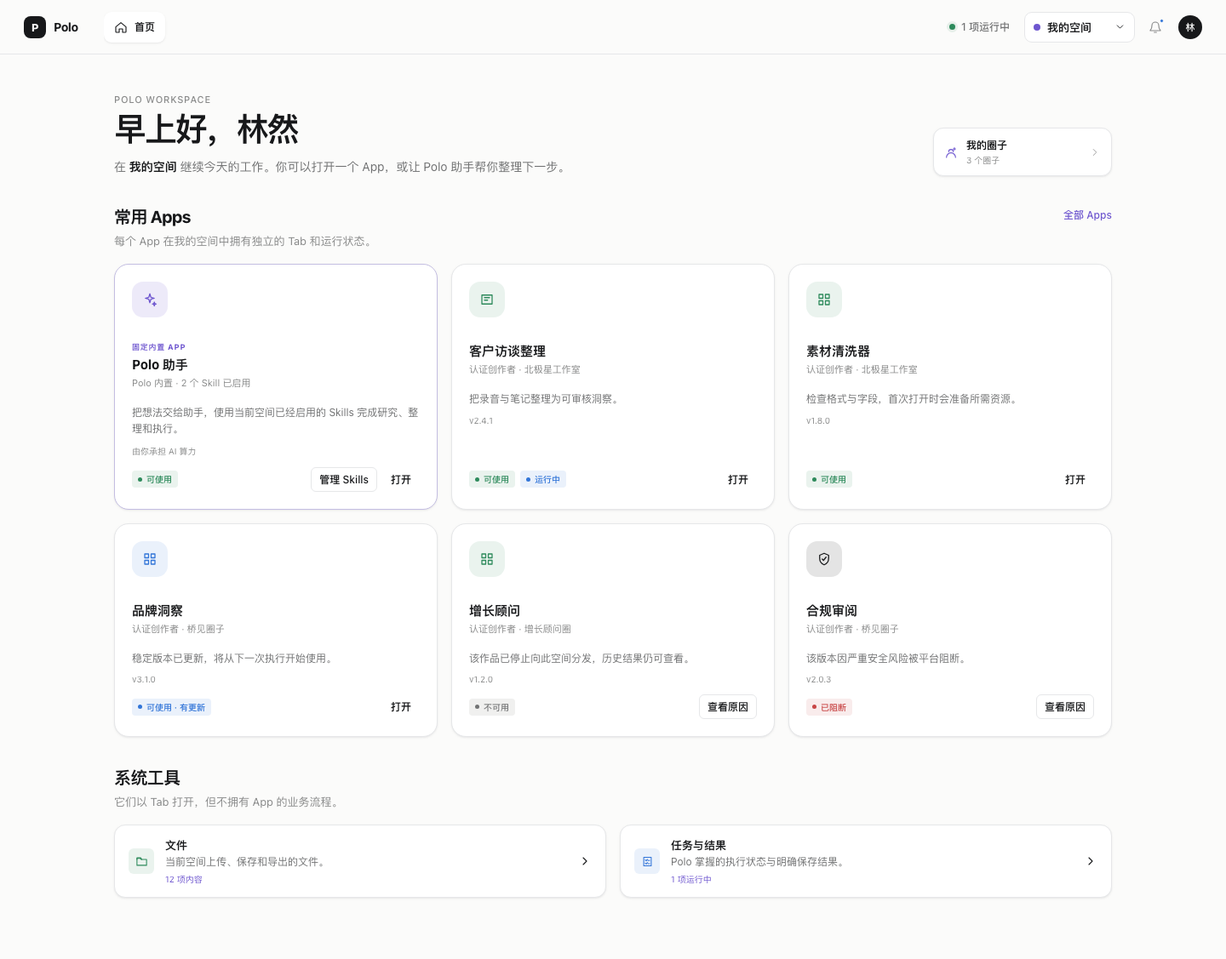
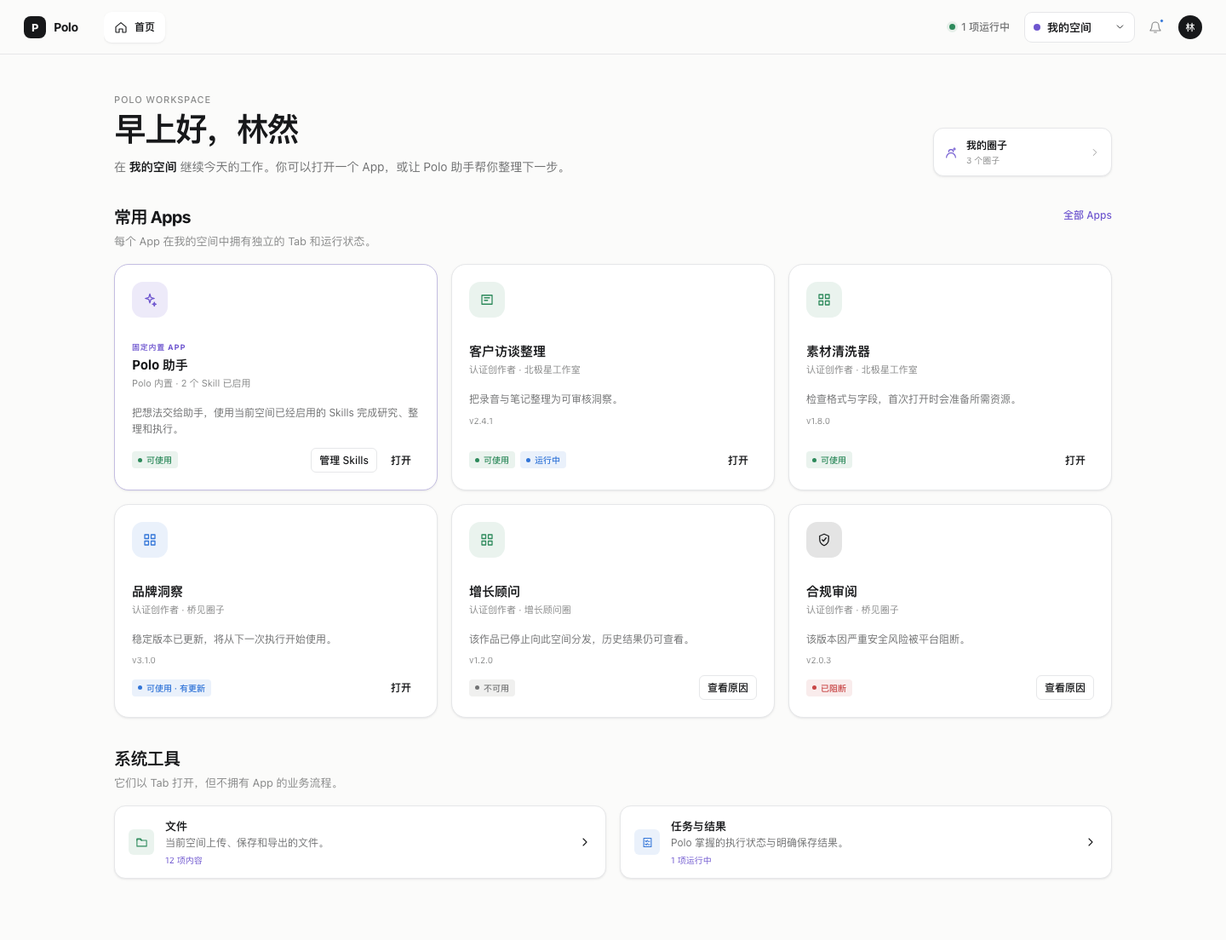
feat(polo-client): clarify assistant integration prototype

diff --git a/design-demos/polo-client-g4-ui/assets/app.js b/design-demos/polo-client-g4-ui/assets/app.js
@@ -33,8 +33,8 @@
   };
 
   const spaces = {
-    personal: { name: "我的空间", type: "个人空间", role: "个人", short: "我", dataOwner: "林然", payer: "林然", payerLine: "由你承担 AI 算力" },
-    enterprise: { name: "北辰智能科技", type: "企业空间", role: "Member", short: "北", dataOwner: "北辰智能科技", payer: "北辰智能科技", payerLine: "由企业承担 AI 算力" }
+    personal: { name: "我的空间", type: "个人空间", role: "个人", short: "我", dataOwner: "林然" },
+    enterprise: { name: "北辰智能科技", type: "企业空间", role: "Member", short: "北", dataOwner: "北辰智能科技" }
   };
 
   const apps = {
@@ -122,7 +122,7 @@
       ? [{ id: "exec-research", appId: "research", name: "客户访谈整理", detail: "正在分析 18 份访谈材料", status: "running", background: false }]
       : [{ id: "exec-weekly", appId: "weekly", name: "销售周报助手", detail: "正在准备企业授权数据", status: "preparing", background: true }],
     messages: [
-      { role: "assistant", text: space === "personal" ? "你好，林然。当前对话只使用“我的空间”的文件、Skills 和费用上下文。" : "你好，林然。当前对话属于北辰智能科技，数据和算力费用均归企业。" }
+      { role: "assistant", text: space === "personal" ? "你好，林然。当前对话只使用“我的空间”的文件和 Skills。" : "你好，林然。当前对话和数据均属于北辰智能科技。" }
     ]
   });
 
@@ -180,7 +180,7 @@
   const statusLabel = status => ({ preparing: "准备中", running: "运行中", waiting_for_network: "等待网络", stopping: "停止中", stopped: "已终止", failed: "失败", completed: "已完成" }[status] || status);
 
   function renderSpaceMenu() {
-    $("#space-menu").innerHTML = `<div class="menu-label">切换空间</div>${Object.entries(spaces).map(([id, space]) => `<button class="space-row ${state.space === id ? "active" : ""}" data-space="${id}" role="menuitem"><span class="space-avatar">${space.short}</span><span><b>${space.name}</b><small>${space.type} · ${space.role} · ${space.payerLine}</small></span>${state.space === id ? icon("check", "check") : ""}</button>`).join("")}`;
+    $("#space-menu").innerHTML = `<div class="menu-label">切换空间</div>${Object.entries(spaces).map(([id, space]) => `<button class="space-row ${state.space === id ? "active" : ""}" data-space="${id}" role="menuitem"><span class="space-avatar">${space.short}</span><span><b>${space.name}</b><small>${space.type} · ${space.role}</small></span>${state.space === id ? icon("check", "check") : ""}</button>`).join("")}`;
   }
 
   function renderAccountMenu() {
@@ -238,7 +238,7 @@
 
   function assistantHomeCard() {
     const enabledCount = Object.values(current().skillEnabled).filter(Boolean).length;
-    return `<article class="product-card assistant-card"><div class="card-heading"><span class="app-art">${icon("spark")}</span><div class="card-title"><p class="card-kicker">固定内置 App</p><h3>Polo 助手</h3><p class="source-line">Polo 内置 · ${enabledCount} 个 Skill 已启用</p></div></div><p class="product-description">把想法交给助手，使用当前空间已经启用的 Skills 完成研究、整理和执行。</p><div class="card-meta">${currentSpace().payerLine}</div><div class="status-line"><span class="status good">可使用</span><button class="card-action" data-open-assistant-skills>管理 Skills</button><button class="card-action primary" data-open="assistant">打开</button></div></article>`;
+    return `<article class="product-card assistant-card"><div class="card-heading"><span class="app-art">${icon("spark")}</span><div class="card-title"><p class="card-kicker">固定内置 App</p><h3>Polo 助手</h3><p class="source-line">Polo 内置 · ${enabledCount} 个 Skill 已启用</p></div></div><p class="product-description">把想法交给助手，使用当前空间已经启用的 Skills 完成研究、整理和执行。</p><div class="status-line"><span class="status good">可使用</span><button class="card-action" data-open-assistant-skills>管理 Skills</button><button class="card-action primary" data-open="assistant">打开</button></div></article>`;
   }
 
   function assistantManagementCard() {
@@ -397,7 +397,7 @@
     const membership = circleMembership(circle);
     const priceLabel = circle.price === "免费" ? "内容费免费" : `内容费 ${circle.price}`;
     const renewalLabel = membership.renewal === "长期有效" || membership.renewal.startsWith("可用至") ? membership.renewal : `下次续费 ${membership.renewal}`;
-    return `<div class="subpage-heading circle-detail-heading"><button class="back-button" data-circle-list>${icon("left")}返回我的圈子</button><div><p class="eyebrow">我的空间 · 认证创作者圈子</p><h1>${circle.name}</h1><p>${circle.creator} · 已获得 ${circle.apps.length} 个 Apps 和 ${circle.skills.length} 个 Skills。作品统一进入我的空间目录和 Polo 助手。</p></div><div class="circle-heading-meta"><span class="status ${membership.tone}">${membership.label}</span><small>${priceLabel} · AI 算力另计 · ${renewalLabel}</small><button class="button quiet" data-circle-membership="${circle.id}">管理成员资格</button></div></div>${section("这个圈子的 Apps", "可以直接打开；添加到首页只是固定快捷入口。", `<div class="circle-work-list">${circle.apps.map(id => circleAppRow(id, circle)).join("")}</div>`, `<button class="section-link" data-home-view="catalog">查看全部 Apps</button>`)}${section("这个圈子的 Skills", "Skill 的启用、停用和调用统一在 Polo 助手中完成。", `<div class="circle-work-list">${circle.skills.map(id => circleSkillRow(id)).join("") || `<div class="empty-note">这个圈子当前没有分发 Skill。</div>`}</div>`, `<button class="section-link" data-open-assistant-skills>打开助手 Skills</button>`)}`;
+    return `<div class="subpage-heading circle-detail-heading"><button class="back-button" data-circle-list>${icon("left")}返回我的圈子</button><div><p class="eyebrow">我的空间 · 认证创作者圈子</p><h1>${circle.name}</h1><p>${circle.creator} · 已获得 ${circle.apps.length} 个 Apps 和 ${circle.skills.length} 个 Skills。作品统一进入我的空间目录和 Polo 助手。</p></div><div class="circle-heading-meta"><span class="status ${membership.tone}">${membership.label}</span><small>${priceLabel} · ${renewalLabel}</small><button class="button quiet" data-circle-membership="${circle.id}">管理成员资格</button></div></div>${section("这个圈子的 Apps", "可以直接打开；添加到首页只是固定快捷入口。", `<div class="circle-work-list">${circle.apps.map(id => circleAppRow(id, circle)).join("")}</div>`, `<button class="section-link" data-home-view="catalog">查看全部 Apps</button>`)}${section("这个圈子的 Skills", "Skill 的启用、停用和调用统一在 Polo 助手中完成。", `<div class="circle-work-list">${circle.skills.map(id => circleSkillRow(id)).join("") || `<div class="empty-note">这个圈子当前没有分发 Skill。</div>`}</div>`, `<button class="section-link" data-open-assistant-skills>打开助手 Skills</button>`)}`;
   }
 
   function subpageHeader(title, description, action = "") {
@@ -407,7 +407,8 @@
   function assistantView() {
     const context = current();
     const enabledSkills = currentSkills().filter(skill => context.skillEnabled[skill.id]);
-    return `<div class="assistant-shell"><aside class="assistant-sidebar"><div class="assistant-sidebar-head"><div><p class="eyebrow">Polo 助手</p><h2>对话</h2></div><button class="icon-button" data-action="new-chat" aria-label="新建对话">+</button></div><div class="session-row active"><strong>8 月项目复盘</strong><span>刚刚 · 当前空间</span></div><div class="session-row muted"><strong>整理客户访谈</strong><span>昨天 · 历史预览</span></div><div class="session-row muted"><strong>品牌语气分析</strong><span>周一 · 历史预览</span></div><div class="sidebar-foot"><span>${currentSpace().name}</span><small>切换空间后不会打开其他空间的旧对话</small></div></aside><section class="assistant-main"><header class="assistant-header"><div><h1>${context.assistantPanel === "skills" ? "Skills" : "8 月项目复盘"}</h1><p>Polo 内置 · ${currentSpace().name} · ${enabledSkills.length} 个 Skill 已启用</p></div><div class="assistant-header-actions"><div class="segmented"><button class="${context.assistantPanel === "chat" ? "active" : ""}" data-assistant-panel="chat">对话</button><button class="${context.assistantPanel === "skills" ? "active" : ""}" data-assistant-panel="skills">Skills</button></div><button class="button quiet" data-permissions="assistant">${icon("shield")}权限</button></div></header>${context.assistantPanel === "skills" ? skillsPanel() : chatPanel(enabledSkills)}</section></div>`;
+    const chatActive = context.assistantPanel === "chat";
+    return `<div class="prototype-boundary-note" role="note"><strong>界面示意</strong><span>正式实现直接复用现有 Polo 助手代码。本原型只验证它在当前空间中以 Tab 打开，不重新定义助手内部模块。</span></div><div class="assistant-shell"><aside class="assistant-sidebar" aria-label="Polo 助手导航"><button class="assistant-new-session" data-action="new-chat">${icon("plus")}新建对话</button><nav class="assistant-nav"><button class="assistant-nav-item ${chatActive ? "active" : ""}" data-assistant-panel="chat">${icon("app")}<span>全部对话</span></button><div class="assistant-nav-nested"><button class="assistant-nav-item muted">${icon("info")}<span>已标记</span></button><button class="assistant-nav-item muted">${icon("folder")}<span>已归档</span></button></div><div class="assistant-nav-divider"></div><button class="assistant-nav-item">${icon("folder")}<span>资料源</span></button><button class="assistant-nav-item ${context.assistantPanel === "skills" ? "active" : ""}" data-assistant-panel="skills">${icon("spark")}<span>Skills</span></button><button class="assistant-nav-item">${icon("task")}<span>自动化</span></button></nav><div class="sidebar-foot"><span>${currentSpace().name}</span><small>对话、资料源、Skills 和运行上下文只属于当前空间</small></div></aside><section class="assistant-navigator" aria-label="对话列表"><header><div><strong>对话</strong><span>${currentSpace().name}</span></div><button class="icon-button" data-action="new-chat" aria-label="新建对话">${icon("plus")}</button></header><p class="assistant-list-label">最近对话</p><button class="session-row active"><strong>8 月项目复盘</strong><span>刚刚</span></button><button class="session-row"><strong>整理客户访谈</strong><span>昨天</span></button><button class="session-row"><strong>品牌语气分析</strong><span>周一</span></button><p class="assistant-list-label">已保存视图</p><button class="session-row muted"><strong>已标记</strong><span>2 个对话</span></button><button class="session-row muted"><strong>已归档</strong><span>5 个对话</span></button></section><section class="assistant-main"><header class="assistant-header"><div><h1>${context.assistantPanel === "skills" ? "Skills" : "8 月项目复盘"}${context.assistantPanel === "chat" ? icon("arrow") : ""}</h1><p>${currentSpace().name} · ${enabledSkills.length} 个 Skill 已启用</p></div><div class="assistant-header-actions"><button class="icon-button" aria-label="分享对话">${icon("external")}</button><button class="button quiet" data-permissions="assistant">${icon("shield")}权限</button></div></header>${context.assistantPanel === "skills" ? skillsPanel() : chatPanel(enabledSkills)}</section></div>`;
   }
 
   function skillsPanel() {
@@ -418,16 +419,16 @@
 
   function chatPanel(enabledSkills) {
     const context = current();
-    return `<div class="chat-panel"><div class="message-list">${context.messages.map(message => `<div class="message ${message.role}"><span class="message-avatar">${message.role === "assistant" ? "P" : "林"}</span><div><small>${message.role === "assistant" ? "Polo 助手" : "林然"}</small><p>${escapeHtml(message.text)}</p>${message.call ? skillCallView(message.call) : ""}</div></div>`).join("")}</div><form class="chat-composer" id="chat-form"><div class="composer-context"><label>调用方式<select id="skill-select"><option value="none">不调用 Skill</option>${enabledSkills.map(skill => `<option value="${skill.id}">${skill.name} · ${skill.source}</option>`).join("")}</select></label><span>${currentSpace().payerLine}</span></div><div class="composer-row"><button type="button" class="icon-button" data-action="attach-file" aria-label="添加文件">+</button><textarea id="chat-input" rows="2" placeholder="给 Polo 助手发消息…"></textarea><button class="button primary" type="submit">发送 ${icon("arrow")}</button></div></form></div>`;
+    return `<div class="chat-panel"><div class="message-list">${context.messages.map(message => `<div class="message ${message.role}"><span class="message-avatar">${message.role === "assistant" ? "P" : "林"}</span><div><small>${message.role === "assistant" ? "Polo 助手" : "林然"}</small><p>${escapeHtml(message.text)}</p>${message.call ? skillCallView(message.call) : ""}</div></div>`).join("")}</div><div class="composer-wrap"><div class="composer-mode"><button type="button" class="assistant-mode-badge">${icon("info")}Ask ${icon("arrow")}</button><span>${currentSpace().name}</span></div><form class="chat-composer" id="chat-form"><textarea id="chat-input" rows="3" placeholder="你想让 Polo 助手做什么？"></textarea><div class="composer-footer"><button type="button" class="composer-tool" data-action="attach-file">${icon("plus")}添加文件</button><label class="composer-tool">${icon("spark")}<select id="skill-select"><option value="none">不调用 Skill</option>${enabledSkills.map(skill => `<option value="${skill.id}">${skill.name} · ${skill.source}</option>`).join("")}</select></label><span></span><button class="composer-send" type="submit" aria-label="发送消息">${icon("arrow")}</button></div></form></div></div>`;
   }
 
   function skillCallView(call) {
     const skill = catalog[state.space].skills.find(item => item.id === call.skillId);
     if (!skill) return "";
-    if (call.stage === "permission") return `<div class="tool-call permission-call">${icon("shield")}<span><strong>确认调用：${skill.name} · ${skill.source}</strong><small>${skill.permissions} · ${currentSpace().payerLine}</small></span><div class="tool-actions"><button class="button" data-cancel-skill-call="${call.id}">取消</button><button class="button primary" data-confirm-skill-call="${call.id}">确认权限并运行</button></div></div>`;
+    if (call.stage === "permission") return `<div class="tool-call permission-call">${icon("shield")}<span><strong>确认调用：${skill.name} · ${skill.source}</strong><small>${skill.permissions}</small></span><div class="tool-actions"><button class="button" data-cancel-skill-call="${call.id}">取消</button><button class="button primary" data-confirm-skill-call="${call.id}">确认权限并运行</button></div></div>`;
     if (call.stage === "running") return `<div class="tool-call">${icon("spark")}<span><strong>${skill.name} · ${skill.source}</strong><small>正在读取已确认材料并生成结果；过程保留在本对话中</small></span><span class="status info">运行中</span></div>`;
-    if (call.stage === "cancelled") return `<div class="tool-call">${icon("shield")}<span><strong>${skill.name} · ${skill.source}</strong><small>未授予本次权限，没有读取文件或产生费用</small></span><span class="status neutral">已取消</span></div>`;
-    return `<div class="tool-call">${icon("check")}<span><strong>${skill.name} · ${skill.source}</strong><small>已生成结构化结果并保存到${currentSpace().name} · ${currentSpace().payerLine}</small></span><span class="status good">已完成</span></div>`;
+    if (call.stage === "cancelled") return `<div class="tool-call">${icon("shield")}<span><strong>${skill.name} · ${skill.source}</strong><small>未授予本次权限，没有读取文件或开始执行</small></span><span class="status neutral">已取消</span></div>`;
+    return `<div class="tool-call">${icon("check")}<span><strong>${skill.name} · ${skill.source}</strong><small>已生成结构化结果并保存到${currentSpace().name}</small></span><span class="status good">已完成</span></div>`;
   }
 
   function filesView() {
@@ -444,7 +445,7 @@
     const executions = activeExecutions();
     const recentExecutions = finishedExecutions();
     const results = catalog[state.space].results;
-    const activeRows = executions.map(item => `<article class="task-row"><span class="app-art compact amber">${icon(appMeta(item.appId).icon)}</span><div><h3>${item.name}</h3><p>${item.detail}</p><small>${currentSpace().name} · ${item.background ? "后台运行" : "前台运行"} · ${currentSpace().payerLine}</small></div><span class="status info">${statusLabel(item.status)}</span><button class="button" data-open="${item.appId}">打开</button><button class="button" data-stop-execution="${item.id}">${icon("stop")}终止</button></article>`).join("");
+    const activeRows = executions.map(item => `<article class="task-row"><span class="app-art compact amber">${icon(appMeta(item.appId).icon)}</span><div><h3>${item.name}</h3><p>${item.detail}</p><small>${currentSpace().name} · ${item.background ? "后台运行" : "前台运行"}</small></div><span class="status info">${statusLabel(item.status)}</span><button class="button" data-open="${item.appId}">打开</button><button class="button" data-stop-execution="${item.id}">${icon("stop")}终止</button></article>`).join("");
     const recentRows = recentExecutions.map(item => `<article class="task-row finished"><span class="app-art compact">${icon(appMeta(item.appId).icon)}</span><div><h3>${item.name}</h3><p>${item.detail}</p><small>${currentSpace().name} · 执行记录保留 · 已保存结果不受影响</small></div><span class="status ${item.status === "failed" ? "bad" : item.status === "completed" ? "good" : "neutral"}">${statusLabel(item.status)}</span><button class="button" data-open="${item.appId}">打开 App</button></article>`).join("");
     return `<div class="app-page-heading"><div><p class="eyebrow">系统工具 · Polo 内置</p><h1>任务与结果</h1><p>只显示${currentSpace().name}中 Polo 掌握的执行状态、最小计量和明确保存的结果。</p></div><div class="heading-actions"><span class="status ${executions.length ? "info" : "good"}">${executions.length ? `${executions.length} 项活动执行` : "当前无活动执行"}</span><button class="button quiet" data-permissions="tasks">${icon("shield")}权限</button></div></div>${section("当前执行", "关闭 App Tab 后可以在这里继续查看；切换空间前必须终止。", `<div class="task-list">${activeRows || `<div class="empty-state"><h2>当前没有运行项</h2><p>App 和 Polo 助手的新执行会出现在这里。</p></div>`}</div>`)}${recentRows ? section("最近执行", "终止和失败不会从历史中消失；它们与已保存结果分开记录。", `<div class="task-list">${recentRows}</div>`) : ""}${section("已保存结果", "App 内部业务历史仍由 App 自己管理。", `<div class="results-grid">${results.map(result => `<article class="result-card"><h3>${result.title}</h3><p>${result.description}</p><div class="result-foot"><span>${result.meta}</span><button class="text-button" data-result="${escapeHtml(result.title)}">查看</button></div></article>`).join("")}</div>`)}`;
   }
@@ -453,11 +454,12 @@
     const item = apps[id];
     const execution = executionFor(id);
     const available = availability(item);
-    return `<div class="app-page-heading"><div><p class="eyebrow">工作 App</p><h1>${item.name}</h1><p class="page-meta">${item.source} · ${item.version}</p><p>${item.description}</p></div><div class="heading-actions"><span class="status ${execution ? "info" : available.tone}">${execution ? statusLabel(execution.status) : available.label}</span><button class="button quiet" data-permissions="${id}">${icon("shield")}权限</button></div></div><div class="app-workspace"><div class="app-workspace-icon">${icon(item.icon)}</div><p class="eyebrow">${currentSpace().name} · App 工作区</p><h2>${execution ? execution.detail : "准备开始一次新的使用"}</h2><p>${execution ? `本次执行固定使用 ${item.version}，切换 Tab 不会终止。` : `启动前会重新验证当前空间、授权、版本和付款方。`}</p><div class="app-actions">${execution ? `<button class="button" data-open="tasks">在任务与结果中查看</button><button class="button" data-stop-execution="${execution.id}">${icon("stop")}终止执行</button>` : `<button class="button primary" data-start-app="${id}">${icon("play")}开始使用</button>`}</div></div>`;
+    return `<div class="app-page-heading"><div><p class="eyebrow">工作 App</p><h1>${item.name}</h1><p class="page-meta">${item.source} · ${item.version}</p><p>${item.description}</p></div><div class="heading-actions"><span class="status ${execution ? "info" : available.tone}">${execution ? statusLabel(execution.status) : available.label}</span><button class="button quiet" data-permissions="${id}">${icon("shield")}权限</button></div></div><div class="app-workspace"><div class="app-workspace-icon">${icon(item.icon)}</div><p class="eyebrow">${currentSpace().name} · App 工作区</p><h2>${execution ? execution.detail : "准备开始一次新的使用"}</h2><p>${execution ? `本次执行固定使用 ${item.version}，切换 Tab 不会终止。` : `启动前会重新验证当前空间、授权和版本。`}</p><div class="app-actions">${execution ? `<button class="button" data-open="tasks">在任务与结果中查看</button><button class="button" data-stop-execution="${execution.id}">${icon("stop")}终止执行</button>` : `<button class="button primary" data-start-app="${id}">${icon("play")}开始使用</button>`}</div></div>`;
   }
 
   function renderMain() {
     const context = current();
+    main.classList.toggle("assistant-mode", context.activeTab === "assistant");
     if (context.activeTab === "home") main.innerHTML = context.homeView === "circles" ? circlesView() : context.homeView === "catalog" ? catalogView() : homeView();
     else if (context.activeTab === "assistant") main.innerHTML = assistantView();
     else if (context.activeTab === "files") main.innerHTML = filesView();
@@ -493,7 +495,7 @@
   function requestCloseTab(id) {
     const execution = executionFor(id);
     if (!execution) { closeTabNow(id); return; }
-    showModal(dialog(`关闭 ${appMeta(id).name}`, "该 App 仍有活动执行。关闭 Tab 不等于终止执行。", `<div class="impact-card">${icon("clock")}<span><strong>${execution.detail}</strong><small>${currentSpace().name} · ${statusLabel(execution.status)} · ${currentSpace().payerLine}</small></span></div>`, `<button class="button" data-close-modal>取消</button><button class="button" data-background-close="${id}">后台继续</button><button class="button danger" data-stop-close="${id}">终止并关闭</button>`));
+    showModal(dialog(`关闭 ${appMeta(id).name}`, "该 App 仍有活动执行。关闭 Tab 不等于终止执行。", `<div class="impact-card">${icon("clock")}<span><strong>${execution.detail}</strong><small>${currentSpace().name} · ${statusLabel(execution.status)}</small></span></div>`, `<button class="button" data-close-modal>取消</button><button class="button" data-background-close="${id}">后台继续</button><button class="button danger" data-stop-close="${id}">终止并关闭</button>`));
   }
 
   function showToast(message) {
@@ -561,7 +563,7 @@
     if (executionFor(id)) return;
     current().executions.push({ id: `exec-${id}-${Date.now()}`, appId: id, name: item.name, detail: "正在准备本次执行", status: "preparing", background: false });
     render();
-    showToast(`“${item.name}”正在准备，本次执行由${currentSpace().payer}承担费用。`);
+    showToast(`“${item.name}”正在准备本次执行。`);
   }
 
   function stopExecution(executionId) {
@@ -588,7 +590,7 @@
     state.runtimeOpen = false;
     state.notificationOpen = false;
     render();
-    showToast(`已进入${spaces[next].name}，目录、对话、文件、权限和付款方已整体切换。`);
+    showToast(`已进入${spaces[next].name}，目录、对话、文件和权限已整体切换。`);
   }
 
   function toggleSkill(id) {
@@ -601,7 +603,7 @@
       showToast(`已在${currentSpace().name}停用“${skill.name}”。`);
       return;
     }
-    showModal(dialog(`启用 ${skill.name}`, "启用状态按你的账号与当前空间保存，不会替其他企业成员启用。", `<div class="permission-summary"><span><b>来源</b>${skill.source}</span><span><b>权限</b>${skill.permissions}</span><span><b>运行位置</b>仅在 Polo 助手对话中</span><span><b>付款方</b>${currentSpace().payer}</span></div>`, `<button class="button" data-close-modal>取消</button><button class="button primary" data-confirm-skill="${id}">确认启用</button>`));
+    showModal(dialog(`启用 ${skill.name}`, "启用状态按你的账号与当前空间保存，不会替其他企业成员启用。", `<div class="permission-summary"><span><b>来源</b>${skill.source}</span><span><b>权限</b>${skill.permissions}</span><span><b>运行位置</b>仅在 Polo 助手对话中</span><span><b>当前空间</b>${currentSpace().name}</span></div>`, `<button class="button" data-close-modal>取消</button><button class="button primary" data-confirm-skill="${id}">确认启用</button>`));
   }
 
   function openCircleMembership(id) {
@@ -611,7 +613,7 @@
     const renewalAction = current().circleMemberships[id] === "cancelled"
       ? `<button class="button" data-resume-circle-renewal="${id}">恢复续费</button>`
       : circle.price === "免费" ? "" : `<button class="button" data-cancel-circle-renewal="${id}">取消续费</button>`;
-    showModal(dialog(`管理 ${circle.name}`, "成员资格只决定这个圈子的授权来源，不会创建新的工作空间。", `<div class="permission-summary"><span><b>当前状态</b>${membership.label}</span><span><b>圈子内容费</b>${circle.price}</span><span><b>续费或有效期</b>${membership.renewal}</span><span><b>AI 算力</b>使用作品时由林然另行承担</span></div>`, `<button class="button" data-close-modal>关闭</button>${renewalAction}<button class="button danger" data-leave-circle="${id}">立即退出</button>`));
+    showModal(dialog(`管理 ${circle.name}`, "成员资格只决定这个圈子的授权来源，不会创建新的工作空间。", `<div class="permission-summary"><span><b>当前状态</b>${membership.label}</span><span><b>圈子内容费</b>${circle.price}</span><span><b>续费或有效期</b>${membership.renewal}</span></div>`, `<button class="button" data-close-modal>关闭</button>${renewalAction}<button class="button danger" data-leave-circle="${id}">立即退出</button>`));
   }
 
   function confirmLeaveCircle(id) {
@@ -699,7 +701,7 @@
     if (target.dataset.action === "view-runtime") { closeModal(); state.runtimeOpen = false; openTab("tasks"); return; }
     if (target.dataset.action === "theme") { state.theme = state.theme === "dark" ? "light" : "dark"; state.openMenu = null; localStorage.setItem("polo-g4-theme", state.theme); render(); showToast(`已切换到${state.theme === "dark" ? "深色" : "浅色"}主题。`); return; }
     if (["settings", "enterprise-admin", "creator-workbench"].includes(target.dataset.action)) { state.openMenu = null; render(); showToast(target.dataset.action === "settings" ? "账号与偏好将在设置中打开。" : "管理入口将在系统浏览器中打开，不会生成客户端 Tab。"); return; }
-    if (target.matches("[data-permissions]")) { const id = target.dataset.permissions; const meta = appMeta(id); const scope = permissionScopes[id]?.(currentSpace()) || `只使用${currentSpace().name}已向当前成员授权的数据`; showModal(dialog(`${meta.name}权限`, "完整权限信息由 Polo 外壳展示，App 和系统工具不能伪造。", `<div class="permission-summary"><span><b>空间</b>${currentSpace().name}</span><span><b>来源与版本</b>${meta.source} · ${meta.version}</span><span><b>允许范围</b>${scope}</span><span><b>数据归属</b>${currentSpace().dataOwner}</span><span><b>费用</b>${currentSpace().payerLine}</span></div>`, `<button class="button primary" data-close-modal>关闭</button>`)); return; }
+    if (target.matches("[data-permissions]")) { const id = target.dataset.permissions; const meta = appMeta(id); const scope = permissionScopes[id]?.(currentSpace()) || `只使用${currentSpace().name}已向当前成员授权的数据`; showModal(dialog(`${meta.name}权限`, "完整权限信息由 Polo 外壳展示，App 和系统工具不能伪造。", `<div class="permission-summary"><span><b>空间</b>${currentSpace().name}</span><span><b>来源与版本</b>${meta.source} · ${meta.version}</span><span><b>允许范围</b>${scope}</span><span><b>数据归属</b>${currentSpace().dataOwner}</span></div>`, `<button class="button primary" data-close-modal>关闭</button>`)); return; }
     if (target.dataset.action === "upload") { showToast(`文件选择器将把文件上传到${currentSpace().name}，归${currentSpace().dataOwner}所有。`); return; }
     if (target.dataset.action === "attach-file") { showToast(`请选择${currentSpace().name}中的文件；只有确认发送后助手才能读取。`); return; }
     if (target.matches("[data-file-details]")) { const name = target.dataset.fileDetails; showModal(dialog(name, "该文件的来源与归属由 Polo 外壳记录。", `<div class="permission-summary"><span><b>所在空间</b>${currentSpace().name}</span><span><b>数据归属</b>${currentSpace().dataOwner}</span><span><b>可用操作</b>打开、下载或从当前空间移除</span></div>`, `<button class="button primary" data-close-modal>关闭</button>`)); return; }

diff --git a/design-demos/polo-client-g4-ui/assets/product.css b/design-demos/polo-client-g4-ui/assets/product.css
@@ -221,32 +221,48 @@ button:focus-visible, input:focus-visible, textarea:focus-visible, select:focus-
 .app-workspace > p:not(.eyebrow) { max-width: 620px; margin: 8px 0 0; color: var(--fg-60); font-size: 13px; line-height: 1.55; }
 .app-actions { display: flex; gap: 8px; margin-top: 20px; }
 
-.assistant-shell { display: grid; min-height: 650px; grid-template-columns: 230px minmax(0, 1fr); overflow: hidden; border: 1px solid var(--border); border-radius: var(--radius-card); background: var(--surface); box-shadow: var(--shadow-minimal); }
-.assistant-sidebar { display: flex; min-width: 0; flex-direction: column; padding: 12px; border-right: 1px solid var(--border); background: var(--bg-elevated); }
-.assistant-sidebar-head { display: flex; align-items: center; justify-content: space-between; padding: 6px 4px 12px; }
-.assistant-sidebar-head h2 { margin: 0; font-size: 14px; }
-.session-row { display: grid; gap: 3px; width: 100%; padding: 10px; border: 0; border-radius: var(--radius-sm); background: transparent; text-align: left; }
+.workspace-main.assistant-mode { display: grid; width: 100%; max-width: none; height: calc(100vh - 64px); grid-template-rows: auto minmax(0, 1fr); gap: 6px; margin: 0; padding: 6px; overflow: hidden; }
+.prototype-boundary-note { display: flex; min-height: 34px; align-items: center; gap: 9px; padding: 6px 10px; border: 1px dashed color-mix(in srgb, var(--accent) 32%, var(--border)); border-radius: var(--radius-md); background: var(--accent-soft); color: var(--fg-60); font-size: 10px; line-height: 1.4; }
+.prototype-boundary-note strong { flex: 0 0 auto; color: var(--accent); font-size: 10px; }
+.assistant-shell { display: grid; width: 100%; min-height: 0; grid-template-columns: 220px 300px minmax(440px, 1fr); gap: 6px; overflow: hidden; background: var(--background); }
+.assistant-sidebar { display: flex; min-width: 0; min-height: 0; flex-direction: column; padding: 8px; background: var(--background); }
+.assistant-new-session { display: flex; width: 100%; min-height: 34px; align-items: center; gap: 8px; margin-bottom: 8px; padding: 0 9px; border: 0; border-radius: var(--radius-sm); background: var(--surface); color: var(--foreground); box-shadow: var(--shadow-minimal); font-size: 12px; text-align: left; }
+.assistant-new-session .icon { width: 14px; height: 14px; }
+.assistant-nav { display: grid; align-content: start; gap: 2px; min-height: 0; overflow-y: auto; padding: 4px 0 16px; }
+.assistant-nav-item { display: flex; width: 100%; min-height: 30px; align-items: center; gap: 8px; padding: 0 8px; border: 0; border-radius: var(--radius-sm); background: transparent; color: var(--fg-70); font-size: 12px; text-align: left; }
+.assistant-nav-item:hover, .assistant-nav-item.active { background: var(--fg-5); color: var(--foreground); }
+.assistant-nav-item .icon { width: 14px; height: 14px; color: var(--fg-50); }
+.assistant-nav-nested { position: relative; display: grid; gap: 2px; padding-left: 20px; }
+.assistant-nav-nested::before { position: absolute; top: 4px; bottom: 4px; left: 13px; width: 1px; background: var(--fg-10); content: ""; }
+.assistant-nav-divider { height: 1px; margin: 5px 8px; background: var(--border); }
+.assistant-navigator, .assistant-main { min-width: 0; min-height: 0; overflow: hidden; border-radius: var(--radius-inner); background: var(--surface); box-shadow: var(--shadow-middle); }
+.assistant-navigator { display: flex; flex-direction: column; padding: 8px; }
+.assistant-navigator > header { display: flex; min-height: 42px; align-items: center; justify-content: space-between; gap: 10px; padding: 2px 4px 8px; }
+.assistant-navigator > header > div { display: grid; min-width: 0; gap: 2px; }
+.assistant-navigator > header strong { font-size: 13px; font-weight: 620; }
+.assistant-navigator > header span { overflow: hidden; color: var(--fg-50); font-size: 10px; text-overflow: ellipsis; white-space: nowrap; }
+.assistant-list-label { margin: 9px 9px 4px; color: var(--fg-40); font-size: 9px; font-weight: 600; letter-spacing: .06em; text-transform: uppercase; }
+.session-row { display: grid; gap: 3px; width: 100%; padding: 9px 10px; border: 0; border-radius: var(--radius-sm); background: transparent; text-align: left; }
 .session-row:hover, .session-row.active { background: var(--fg-5); }
-.session-row.muted { opacity: .62; }
-.session-row.muted:hover { background: transparent; }
+.session-row.muted { opacity: .68; }
 .session-row strong { overflow: hidden; font-size: 12px; font-weight: 500; text-overflow: ellipsis; white-space: nowrap; }
 .session-row span { color: var(--fg-50); font-size: 10px; }
 .sidebar-foot { display: grid; gap: 3px; margin-top: auto; padding: 12px 8px 4px; border-top: 1px solid var(--border); }
 .sidebar-foot span { font-size: 11px; font-weight: 600; }
 .sidebar-foot small { color: var(--fg-50); font-size: 10px; line-height: 1.4; }
 .assistant-main { display: grid; min-width: 0; grid-template-rows: auto minmax(0, 1fr); }
-.assistant-header { display: flex; min-height: 68px; align-items: center; justify-content: space-between; gap: 20px; padding: 12px 16px; border-bottom: 1px solid var(--border); }
-.assistant-header h1 { margin: 0; font-size: 14px; font-weight: 600; }
-.assistant-header p { margin: 4px 0 0; color: var(--fg-50); font-size: 10px; }
-.segmented { display: flex; padding: 3px; border-radius: var(--radius-sm); background: var(--fg-5); }
-.segmented button { min-height: 28px; padding: 0 10px; border: 0; border-radius: 4px; background: transparent; color: var(--fg-60); font-size: 11px; }
-.segmented button.active { background: var(--surface); color: var(--foreground); box-shadow: var(--shadow-minimal); }
+.assistant-header { display: flex; min-height: 52px; align-items: center; justify-content: space-between; gap: 20px; padding: 7px 9px 7px 14px; border-bottom: 1px solid var(--border); }
+.assistant-header h1 { display: flex; align-items: center; gap: 4px; margin: 0; font-size: 14px; font-weight: 600; }
+.assistant-header h1 .icon { width: 13px; height: 13px; transform: rotate(90deg); color: var(--fg-50); }
+.assistant-header p { margin: 3px 0 0; color: var(--fg-50); font-size: 9px; }
+.assistant-header-actions { display: flex; align-items: center; gap: 4px; }
 .chat-panel { display: grid; min-height: 0; grid-template-rows: minmax(0, 1fr) auto; }
-.message-list { display: grid; align-content: start; gap: 20px; overflow-y: auto; padding: 28px clamp(24px, 6vw, 78px); }
-.message { display: grid; max-width: 760px; grid-template-columns: auto minmax(0, 1fr); gap: 10px; }
+.message-list { display: grid; width: 100%; max-width: 840px; align-content: start; gap: 22px; margin: 0 auto; overflow-y: auto; padding: 34px 20px; mask-image: linear-gradient(to bottom, transparent 0, black 28px, black calc(100% - 28px), transparent 100%); }
+.message { display: grid; width: min(100%, 700px); grid-template-columns: auto minmax(0, 1fr); gap: 10px; }
 .message.user { margin-left: auto; grid-template-columns: minmax(0, 1fr) auto; }
 .message.user .message-avatar { order: 2; }
-.message.user > div { order: 1; padding: 10px 12px; border-radius: var(--radius-lg); background: var(--fg-5); }
+.message.user > div { order: 1; padding: 10px 13px; border: 1px solid var(--border); border-radius: var(--radius-lg); background: var(--fg-5); }
+.message.assistant > div { padding: 11px 13px; border: 1px solid var(--border); border-radius: var(--radius-lg); background: var(--surface); }
 .message-avatar { display: grid; width: 28px; height: 28px; place-items: center; border-radius: var(--radius-sm); background: var(--accent-soft); color: var(--accent); font-size: 10px; font-weight: 600; }
 .message small { color: var(--fg-50); font-size: 10px; }
 .message p { margin: 5px 0 0; font-size: 13px; line-height: 1.58; }
@@ -257,12 +273,20 @@ button:focus-visible, input:focus-visible, textarea:focus-visible, select:focus-
 .tool-call small { font-size: 9px; }
 .tool-actions { display: flex; align-items: center; gap: 6px; }
 .permission-call { align-items: flex-start; }
-.chat-composer { margin: 0 clamp(20px, 5vw, 68px) 20px; border: 1px solid var(--border); border-radius: var(--radius-lg); background: var(--surface); box-shadow: var(--shadow-middle); }
-.composer-context { display: flex; min-height: 34px; align-items: center; justify-content: space-between; gap: 12px; padding: 5px 9px; border-bottom: 1px solid var(--border); color: var(--fg-50); font-size: 10px; }
-.composer-context label { display: flex; align-items: center; gap: 7px; }
-.composer-context select { max-width: 300px; border: 0; background: transparent; color: var(--fg-70); font-size: 10px; }
-.composer-row { display: flex; align-items: flex-end; gap: 8px; padding: 8px; }
-.composer-row textarea { min-height: 44px; flex: 1; resize: none; border: 0; outline: 0; background: transparent; font-size: 13px; line-height: 1.45; }
+.composer-wrap { width: 100%; max-width: 840px; margin: 3px auto 0; padding: 0 16px 16px; }
+.composer-mode { display: flex; min-height: 34px; align-items: center; justify-content: space-between; gap: 12px; margin-bottom: 7px; padding: 0 2px; color: var(--fg-50); font-size: 9px; }
+.assistant-mode-badge { display: inline-flex; height: 30px; align-items: center; gap: 6px; padding: 0 9px; border: 0; border-radius: var(--radius-md); background: var(--info-soft); color: var(--info); box-shadow: var(--shadow-minimal); font-size: 11px; font-weight: 600; }
+.assistant-mode-badge .icon { width: 13px; height: 13px; }
+.assistant-mode-badge .icon:last-child { width: 11px; height: 11px; transform: rotate(90deg); opacity: .62; }
+.chat-composer { overflow: hidden; border: 1px solid var(--border); border-radius: var(--radius-lg); background: var(--surface); box-shadow: var(--shadow-middle); }
+.chat-composer > textarea { display: block; width: 100%; min-height: 84px; max-height: 260px; padding: 15px 18px 11px; resize: none; border: 0; outline: 0; background: transparent; font-size: 13px; line-height: 1.5; }
+.composer-footer { display: grid; min-height: 44px; grid-template-columns: auto minmax(0, auto) 1fr auto; align-items: center; gap: 4px; padding: 7px 8px; border-top: 1px solid var(--border); }
+.composer-tool { display: inline-flex; min-width: 0; height: 28px; align-items: center; gap: 6px; padding: 0 8px; border: 0; border-radius: var(--radius-sm); background: transparent; color: var(--fg-60); font-size: 10px; white-space: nowrap; }
+.composer-tool:hover { background: var(--fg-5); color: var(--foreground); }
+.composer-tool .icon { width: 14px; height: 14px; }
+.composer-tool select { max-width: 210px; border: 0; outline: 0; background: transparent; color: inherit; font-size: 10px; }
+.composer-send { display: grid; width: 30px; height: 30px; place-items: center; border: 0; border-radius: 50%; background: var(--foreground); color: var(--background); }
+.composer-send .icon { width: 15px; height: 15px; transform: rotate(-90deg); }
 .skills-panel { overflow-y: auto; padding: 22px; }
 .panel-intro { display: flex; align-items: flex-start; justify-content: space-between; gap: 20px; margin-bottom: 16px; }
 .panel-intro h2 { margin: 0; font-size: 16px; }
@@ -407,9 +431,8 @@ td { padding: 12px; border-top: 1px solid var(--border); color: var(--fg-60); wh
   .section { margin-top: 28px; }
   .product-card { min-height: 210px; padding: 18px; }
   .card-grid, .results-grid { grid-template-columns: repeat(2, minmax(0, 1fr)); }
-  .assistant-shell { grid-template-columns: 190px minmax(0, 1fr); }
-  .message-list { padding: 24px 30px; }
-  .chat-composer { margin-inline: 24px; }
+  .assistant-shell { grid-template-columns: 190px 250px minmax(0, 1fr); }
+  .message-list { padding: 28px 20px; }
   .skill-row { grid-template-columns: auto minmax(0, 1fr); }
   .skill-permission { grid-column: 2; justify-content: space-between; }
   .skill-permission > span { text-align: left; }
@@ -456,7 +479,7 @@ td { padding: 12px; border-top: 1px solid var(--border); color: var(--fg-60); wh
   .circle-heading-meta { width: 100%; justify-items: start; }
   .circle-heading-meta small { max-width: none; text-align: left; }
   .assistant-sidebar { display: none; }
-  .assistant-shell { grid-template-columns: minmax(0, 1fr); }
+  .assistant-shell { grid-template-columns: 220px minmax(0, 1fr); }
 }
 
 @media (max-width: 640px) {
